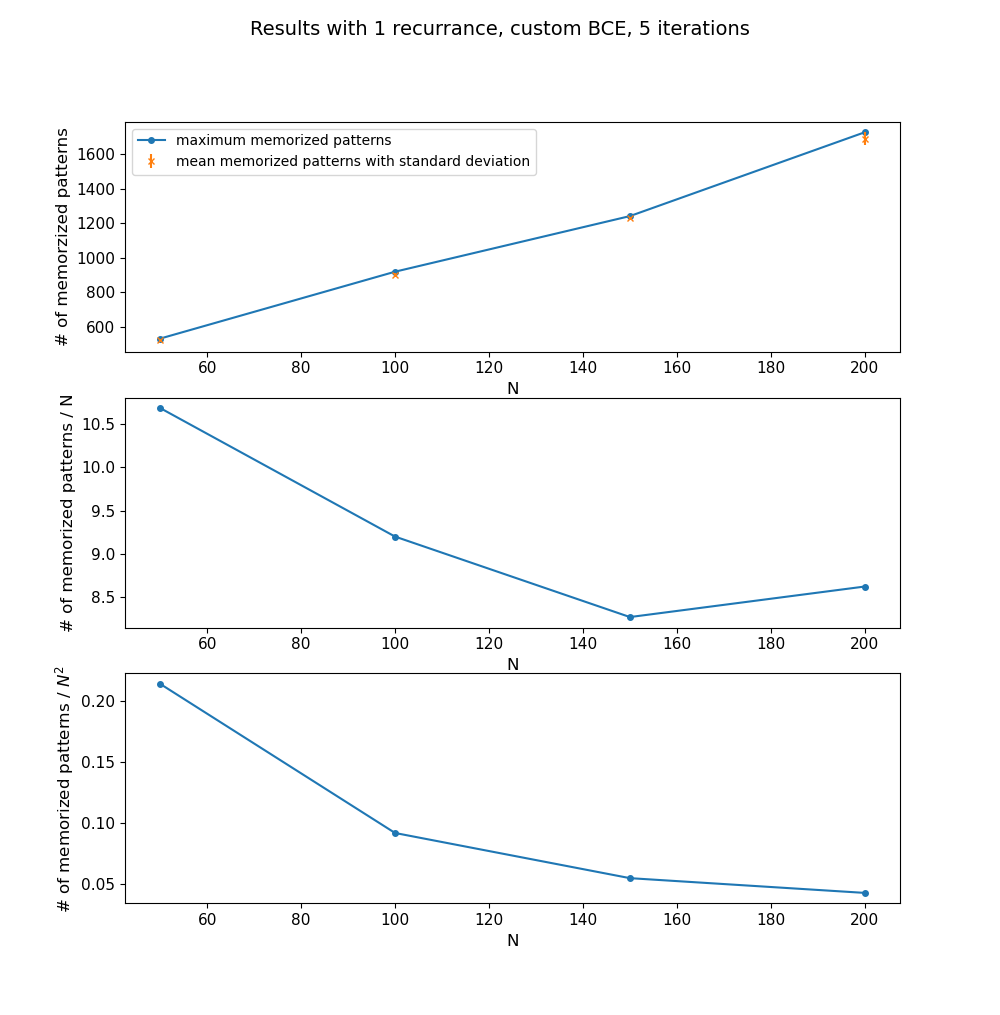
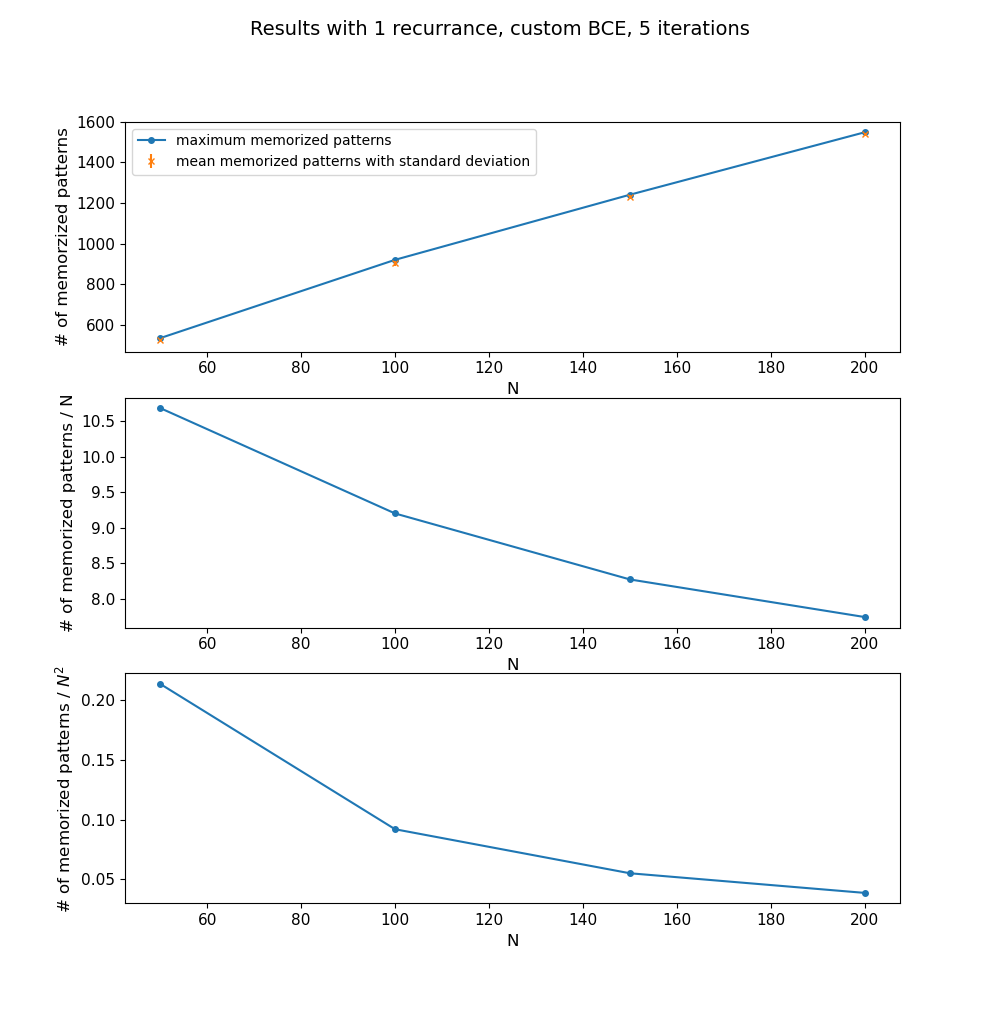
added final results! And minor plot beautifying

diff --git a/memoryPlot.py b/memoryPlot.py
@@ -223,13 +223,10 @@ mean_of_patterns_recurrent_2 = []
 std_recurrent_2 = []
 dataset_size = []
 
-# too few epochs, rerunning, DS700 did not work anymore, now DS600 with more epochs
 N_recurrent_2.append(50)
-# number_of_patterns_recurrent_2.append(567)
-number_of_patterns_recurrent_2.append(600)
-
-mean_of_patterns_recurrent_2.append(555)
-std_recurrent_2.append(11.78)
+number_of_patterns_recurrent_2.append(589)
+mean_of_patterns_recurrent_2.append(577.66)
+std_recurrent_2.append(13.3)
 dataset_size.append(600)
 
 # 
@@ -245,7 +242,6 @@ mean_of_patterns_recurrent_2.append(1199)
 std_recurrent_2.append(14.51)
 dataset_size.append(1300)
 
-# running
 # N_recurrent_2.append(150)
 # number_of_patterns_recurrent_2.append(1472)
 # mean_of_patterns_recurrent_2.append(1463.67)
@@ -258,7 +254,6 @@ mean_of_patterns_recurrent_2.append(1503)
 std_recurrent_2.append(17.72)
 dataset_size.append(1600)
 
-# running
 # N_recurrent_2.append(200)
 # number_of_patterns_recurrent_2.append(1673)
 # mean_of_patterns_recurrent_2.append(0)
@@ -277,15 +272,15 @@ plt.plot(N_simple, number_of_patterns_simple, marker = 'o', ms = 4, label="simpl
 plt.errorbar(N_simple, mean_of_patterns_simple, std_simple, linestyle='None', marker = 'x', ms = 4, color='blue')
 plt.plot(N_custom_loss, number_of_patterns_custom_loss, marker = 'o', ms = 4, label="simple + custom loss", color='green')
 plt.errorbar(N_custom_loss, mean_of_patterns_custom_loss, std_custom_loss, linestyle='None', marker = 'x', ms = 4, color='green')
-plt.plot(N_recurrent, number_of_patterns_recurrent, marker = 'o', ms = 4, label="recurrent layer (2 steps) + custom loss + ", color='red')
+plt.plot(N_recurrent, number_of_patterns_recurrent, marker = 'o', ms = 4, label="recurrent layer (2 steps) + custom loss", color='red')
 plt.errorbar(N_recurrent, mean_of_patterns_recurrent, std_recurrent, linestyle='None', marker = 'x', ms = 4, color='red')
 plt.plot(N_recurrent_2, number_of_patterns_recurrent_2, marker = 'o', ms = 4, label="recurrent layer (3 steps) + custom loss", color='black')
 plt.errorbar(N_recurrent_2, mean_of_patterns_recurrent_2, std_recurrent_2, linestyle='None', marker = 'x', ms = 4, color='black')
-plt.legend(loc="upper left")
 plt.title("Memorized patterns", fontsize=14)
-plt.ylabel("# of memorzized patterns", fontsize=12)
-plt.xlabel("N", fontsize=12)
-plt.tick_params(axis='both', labelsize=11)
+plt.legend(loc="lower right", fontsize=12)
+plt.ylabel("# of memorzized patterns", fontsize=13)
+plt.xlabel("N", fontsize=13)
+plt.tick_params(axis='both', labelsize=12)
 plt.savefig("combinedMemorizedPatterns" + ".png")
 
 plt.figure(figsize=(10,15))
@@ -294,10 +289,10 @@ plt.plot(N_custom_loss, [i / j for i, j in zip(number_of_patterns_custom_loss, N
 plt.plot(N_recurrent, [i / j for i, j in zip(number_of_patterns_recurrent, N_recurrent)], marker = 'o', ms = 4, label='recurrent layer (2 steps) + custom loss', color='red')
 plt.plot(N_recurrent_2, [i / j for i, j in zip(number_of_patterns_recurrent_2, N_recurrent_2)], marker = 'o', ms = 4, label='recurrent layer (3 steps) + custom loss', color='black')
 plt.title("Memorized patterns per input neuron", fontsize=14)
-plt.legend(loc="upper left")
-plt.ylabel("# of memorized patterns / N", fontsize=12)
-plt.xlabel("N", fontsize=12)
-plt.tick_params(axis='both', labelsize=11)
+plt.legend(loc="upper right", fontsize=12)
+plt.ylabel("# of memorized patterns / N", fontsize=13)
+plt.xlabel("N", fontsize=13)
+plt.tick_params(axis='both', labelsize=12)
 plt.savefig("combindedPatternPerN" + ".png")
 
 plt.figure(figsize=(10,15))
@@ -306,8 +301,8 @@ plt.plot(N_custom_loss, [i / j**2 for i, j in zip(number_of_patterns_custom_loss
 plt.plot(N_recurrent, [i / j**2 for i, j in zip(number_of_patterns_recurrent, N_recurrent)], marker = 'o', ms = 4, label='recurrent layer (2 steps) + custom loss', color='red')
 plt.plot(N_recurrent_2, [i / j**2 for i, j in zip(number_of_patterns_recurrent_2, N_recurrent_2)], marker = 'o', ms = 4, label='recurrent layer (3 steps) + custom loss', color='black')
 plt.title("Memorized patterns per input neuron squared", fontsize=14)
-plt.legend(loc="upper left")
-plt.ylabel("# of memorized patterns / $N^2$", fontsize=12)
-plt.xlabel("N", fontsize=12)
-plt.tick_params(axis='both', labelsize=11)
+plt.legend(loc="upper right", fontsize=12)
+plt.ylabel("# of memorized patterns / $N^2$", fontsize=13)
+plt.xlabel("N", fontsize=13)
+plt.tick_params(axis='both', labelsize=12)
 plt.savefig("combindedPatternPerN2" + ".png")
